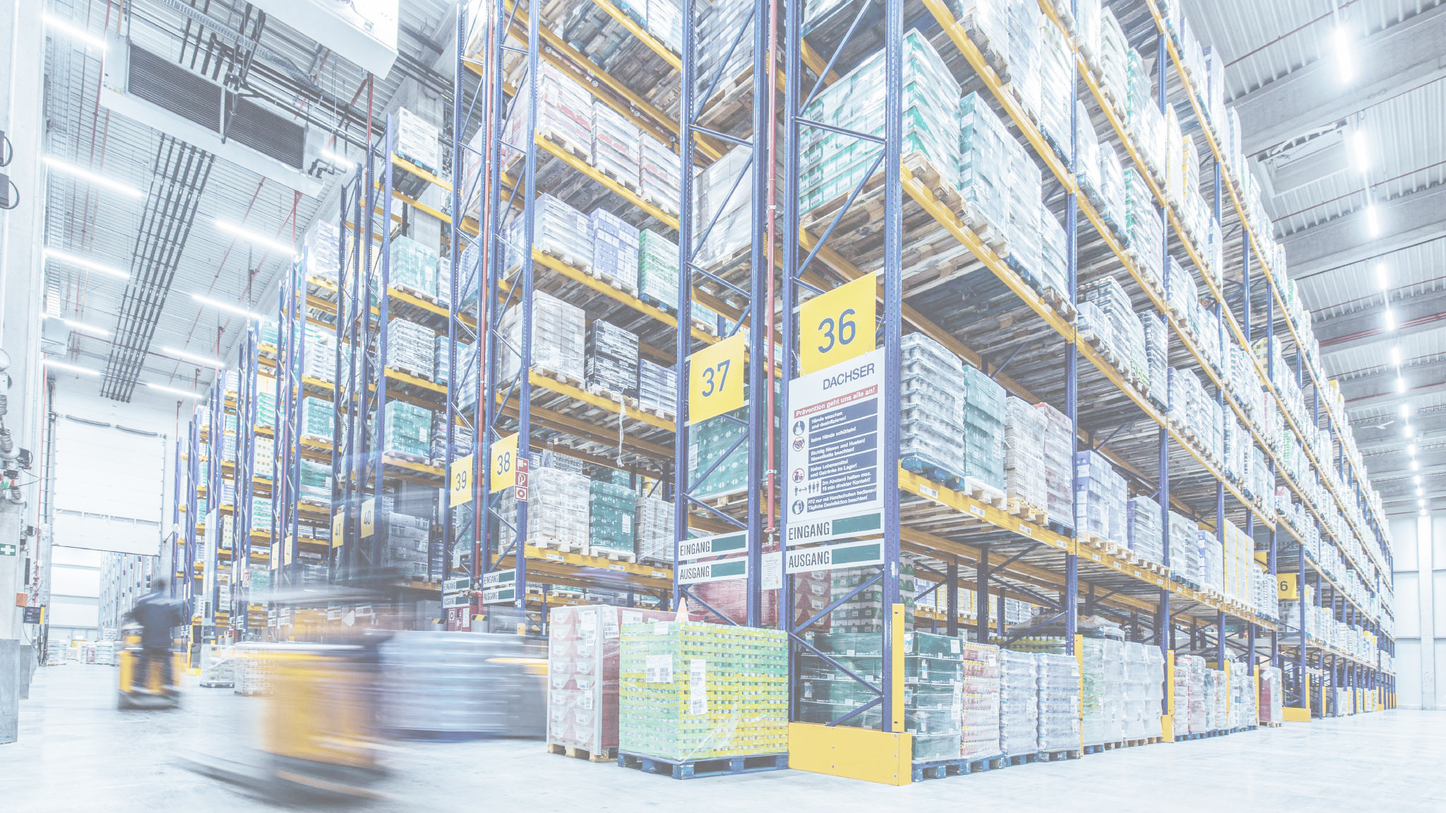
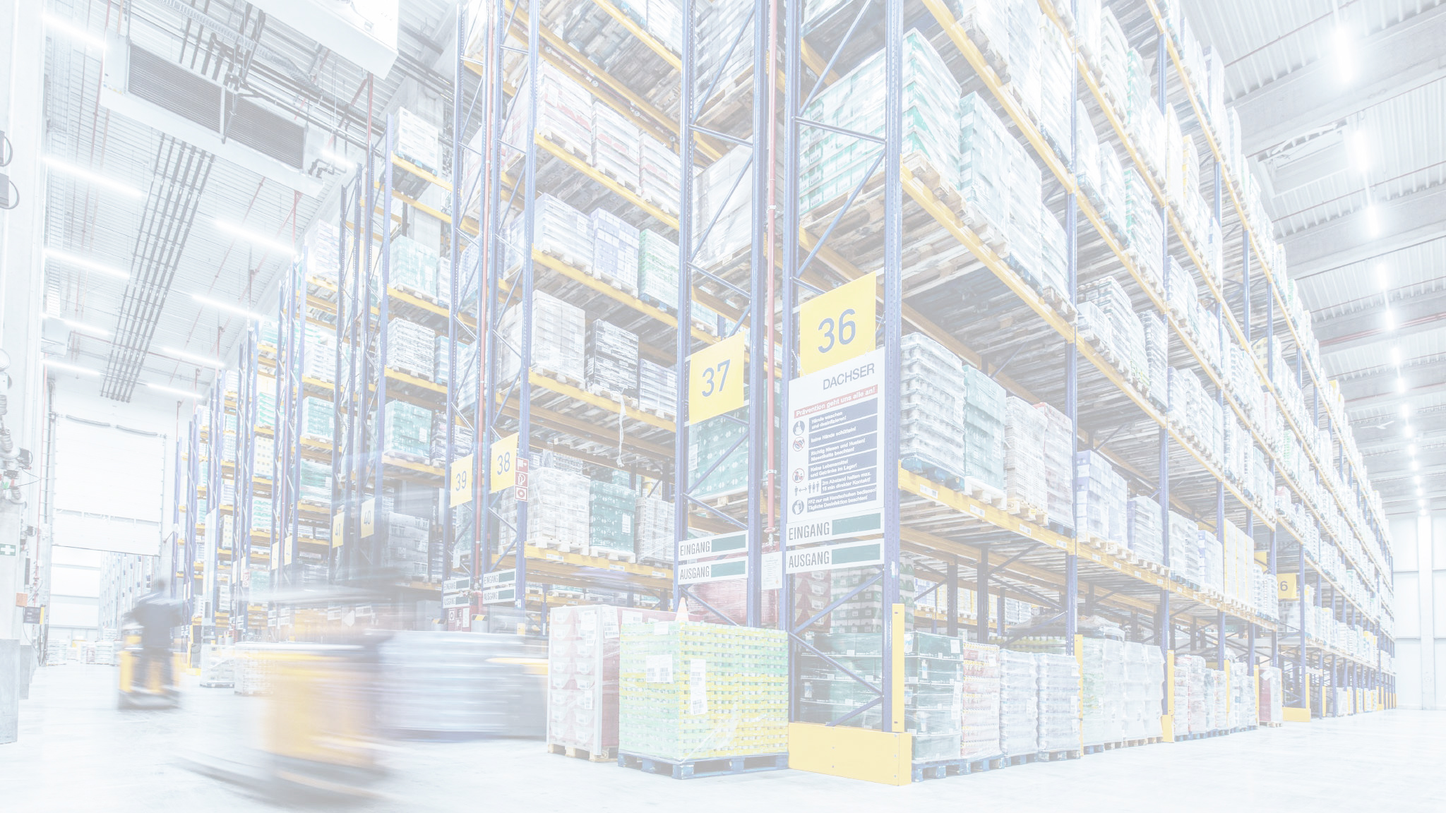
cover section

diff --git a/src/styles/navigation.css b/src/styles/navigation.css
@@ -9,6 +9,15 @@
    background-color: rgba(255, 255, 255, 0.8);
    border-radius: 20px 20px 0px 0px;
 }
+.filter {
+   position: absolute;
+   top:0;
+   left: 0;
+   bottom: 0;
+   right: 0;
+   background-color: rgb(0, 0, 0);
+   transition: 3s ease;
+}
 
 nav {
    position: absolute;
@@ -24,9 +33,9 @@ nav {
    position: relative;
    display: flex;
    width: 100%;
-   height: 90vh;
+   height: 100vh;
    background-image: url('./cover1.jpg');
-   opacity: 0.8;
+   opacity: 1;
    background-size: cover;
 }
 .logo {
@@ -43,19 +52,18 @@ nav {
    display: flex;
 }
 .btn {
-   width:140px;
-   height: 53px;
+   height: 51px;
    display: flex;
    flex-direction: column;
    background-color: Transparent;
    background-repeat:no-repeat;
-   border: 2px solid black;
+   border: 3px solid black;
    cursor:pointer;
    border-radius: 30px;
    color: black;
    font-family: "Inter";
-   font-size: 16px;
-   font-weight: 400;
+   font-size: 14px;
+   font-weight: 500;
    transition: 0.3s;
    overflow: hidden;
    padding: 15px 25px;
@@ -65,7 +73,7 @@ nav {
    background-color: black;
 }
 .btn:hover .spnBtn1{
-  margin-top: -34px;
+  margin-top: -32px;
 }
 .spnBtn1 {
    transition: 0.3s;
@@ -154,4 +162,28 @@ border-radius: 20px 20px 0px 0px;
    border-radius: 20px 0px 20px 20px;
    padding: 0px 20px 20px 20px; 
    display: none;
+}
+.sloganWrap {
+   position: absolute;
+   width: 100%;
+   height: 400px;
+   top: 260px;
+   padding: 0px 100px 0px 100px;
+   overflow: hidden;
+   transition: 0.5s;
+}
+.h1 {
+   font-family: 'Inter';
+   font-size: 60px;
+   font-weight: 500;
+}
+.slogantext {
+   font-family: 'Inter';
+   font-size: 30px;
+   font-weight: 300;
+   padding: 20px 100px 20px 0px;
+}
+.slogan {
+   margin-top: 400px;
+   transition: 3s ease;
 }

diff --git a/src/components/Navigation.js b/src/components/Navigation.js
@@ -1,8 +1,16 @@
 import Link from 'next/link';
+import { useEffect, useState } from 'react';
 export default function Navigation(){
+  const [opacity, setOpacity] = useState(1) 
+  const [margin, setMargin] = useState(400)
+  useEffect(()=>{
+     setOpacity(0)
+     setMargin(0)
+  },[])
     return (
       <div>
-      <div className='cover'></div>
+      <div className='cover'>
+        <div className='filter' style={{opacity: opacity}}></div>
       <nav className='nav'>
       <div className='logoNavWrap'>
       <div className='logo'>SWIFTSTORE</div>
@@ -35,7 +43,15 @@ export default function Navigation(){
       </div> 
         <button className='btn'><span className='spnBtn1'>Contact us</span><span className='spnBtn2'>Contact us</span></button>
       </nav>
-      <div>sd;lfk</div>
+      <div className='sloganWrap'>
+        <div className='slogan' style={{marginTop: margin}}>
+        <h1 className='h1'>Warehouse solutions in Spain</h1>
+        <p className='slogantext'>A long established fact that a reader will be distracted by the readable content of a page when looking at its layout. The point of using Lorem Ipsum is that it has a more-or-less normal distribution of letters, as opposed to using 'Content here, content here', making it look like readable English. Many desktop publishing packages and web page editors now use Lorem Ipsum as their default model text, and a search for 'lorem ipsum'.
+        </p>
+        <button className='btn'><span className='spnBtn1'>What's App US</span><span className='spnBtn2'>What's App US</span></button>
+        </div>
+      </div>
+      </div>
       </div>
     )
 }
